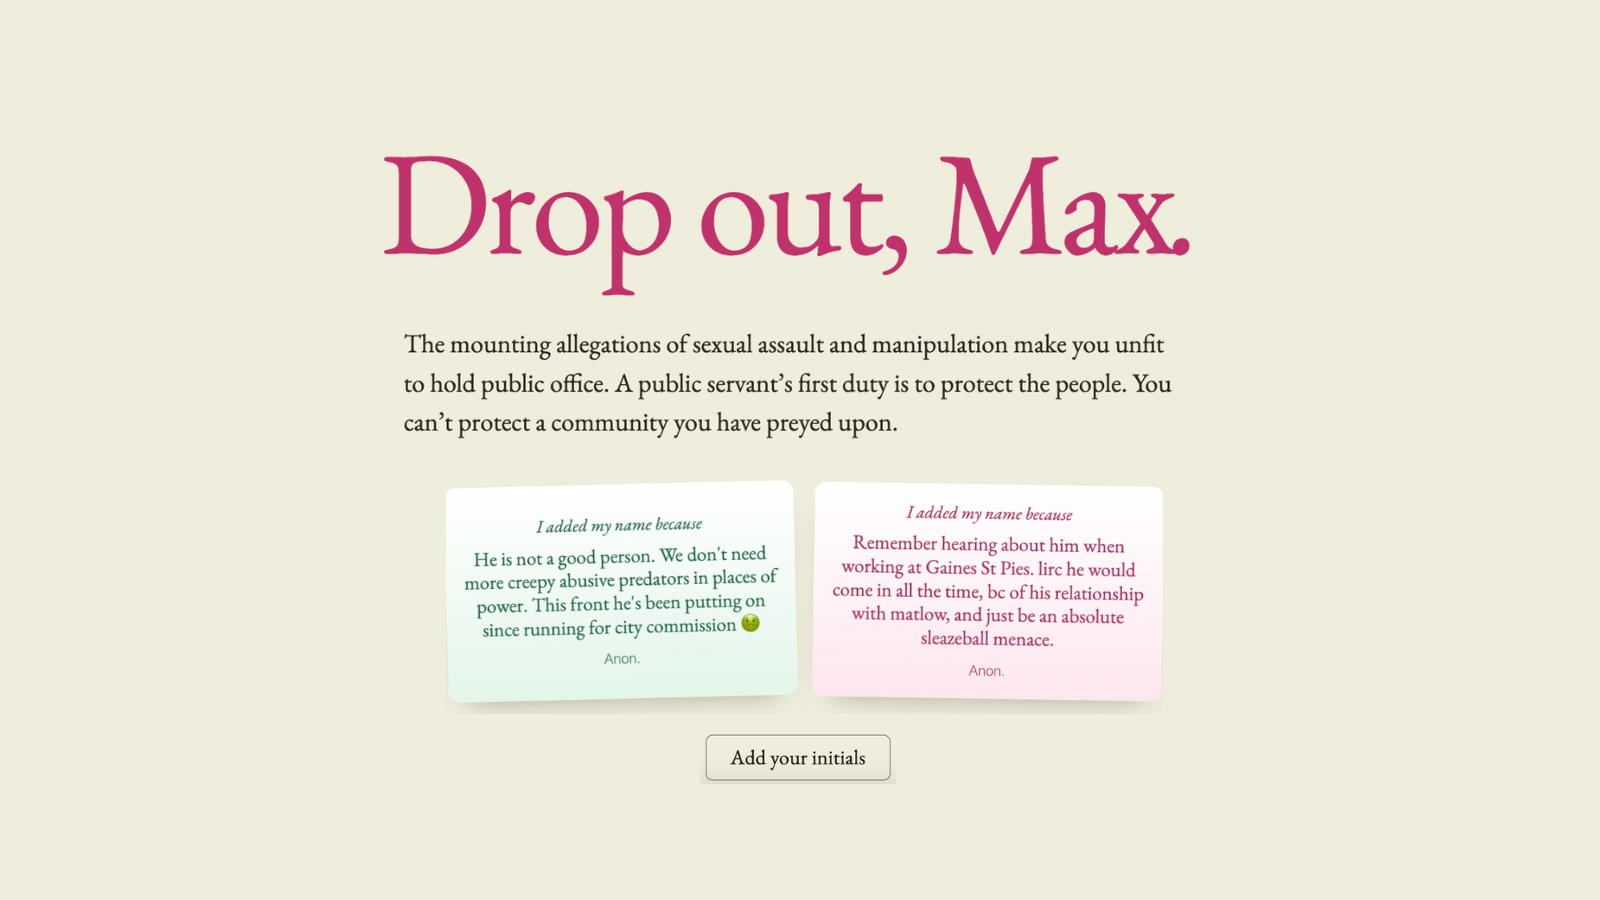
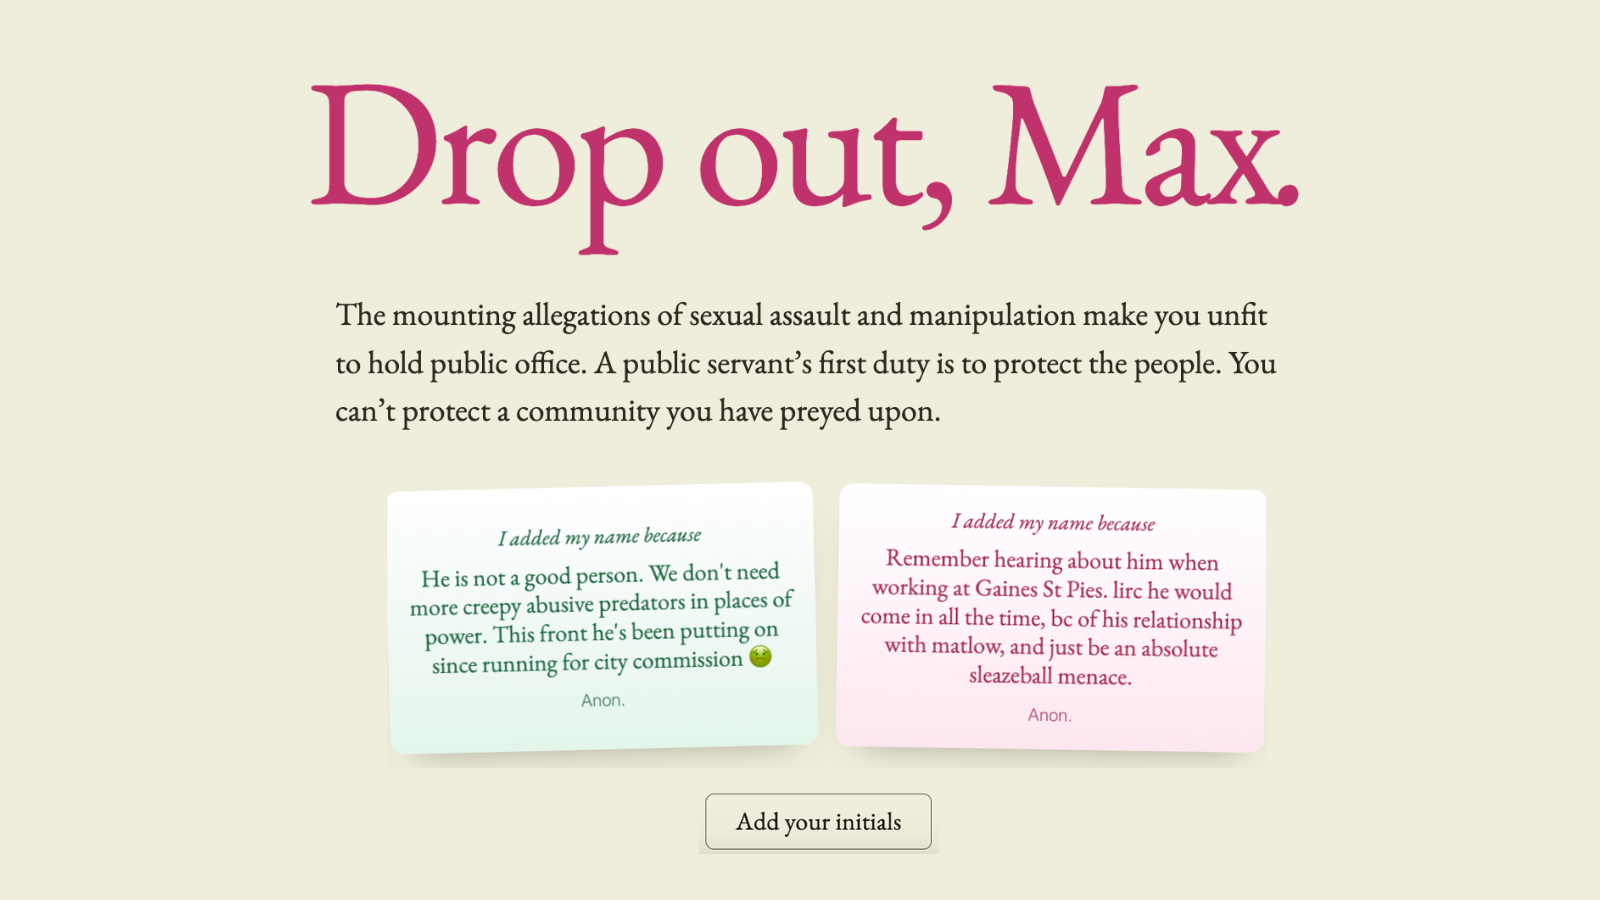
more tiny tiny tweaks (#14)

Changed region(s): [[0.1875, 0.0933, 0.8125, 0.4978], [0.2188, 0.5289, 0.8125, 0.8711], [0.4375, 0.9022, 0.5625, 0.9333]]

diff --git a/components/WallProvider.js b/components/WallProvider.js
@@ -36,36 +36,41 @@ export function WallProvider({ children }) {
     loadNotes();
   }, []);
 
-  async function addNote({ story, name }) {
-    if (!story.trim()) return false;
-    const initials = initialsOf(name);
+async function addNote({ story, name, contact, number }) {
+  if (!story.trim()) return false;
+  const initials = initialsOf(name);
 
-    try {
-      const res = await fetch("/api/wall-notes", {
-        method: "POST",
-        headers: { "Content-Type": "application/json" },
-        body: JSON.stringify({ initials, story: story.trim() }),
-      });
+  try {
+    const res = await fetch("/api/wall-notes", {
+      method: "POST",
+      headers: { "Content-Type": "application/json" },
+      body: JSON.stringify({
+        initials,
+        story: story.trim(),
+        contact: !!contact,
+        number: contact ? number.trim() : "",
+      }),
+    });
 
-      if (!res.ok) {
-        console.error("Failed to save note to Airtable");
-        return false;
-      }
-    } catch (err) {
-      console.error("Network error saving note:", err);
+    if (!res.ok) {
+      console.error("Failed to save note to Airtable");
       return false;
     }
-
-    const newNote = { story: story.trim(), name: initials };
-    setNotes((prev) => (newNote.story ? [newNote, ...prev] : prev));
-    setSigners((prev) =>
-      initials && initials.trim() !== "Anon." ? [...prev, { label: initials }] : prev
-    );
-    setAdding(false);
-    router.push("/notes");
-    if (typeof window !== "undefined") window.scrollTo({ top: 0, behavior: "smooth" });
-    return true;
+  } catch (err) {
+    console.error("Network error saving note:", err);
+    return false;
   }
+
+  const newNote = { story: story.trim(), name: initials };
+  setNotes((prev) => (newNote.story ? [newNote, ...prev] : prev));
+  setSigners((prev) =>
+    initials && initials.trim() !== "Anon." ? [...prev, { label: initials }] : prev
+  );
+  setAdding(false);
+  router.push("/notes");
+  if (typeof window !== "undefined") window.scrollTo({ top: 0, behavior: "smooth" });
+  return true;
+}
 
   return (
     <WallContext.Provider value={{ notes, signers, adding, setAdding, addNote, loading }}>

diff --git a/app/info/page.js b/app/info/page.js
@@ -17,12 +17,11 @@ export default function InfoPage() {
           A group of former and current Tallahassee residents wrote <a href="/">this open letter</a> to force a larger, and more open conversation about Max Herrle and his refusal to address mounting sexual assault and manipulation allegations.
         </p>
         <p style={body}>
-          Out of fear of retaliation, the creators chose to sign with just their initials to maintain some level of
-          anonymity. We are not affiliated with any campaign, party, or political committee. Just some women who believe
+          We invite members of the public to sign the open letter and post their stories about Max to the <a href="/notes">"wall"</a>. The more stories we share, the more pressure we put on Max and his enablers to address the issue of sexual assault and complacency towards abuse in Tallahassee. We are not affiliated with any campaign, party, or political committee. We are just some women who believe
           in accountability and the sanctity of public office.
         </p>
         <p style={body}>
-          We invite members of the public to sign the open letter and post their stories about Max to the <a href="/notes">"wall"</a>. The more stories we share, the more pressure we put on Max and his enablers to address the issue of sexual assault and complacency towards abuse in Tallahassee. Visit the <a href="/records">records page</a> to view first- and second-hand accounts of Max's exploitative actions. We received consent to post those screenshots.
+          Out of fear of retaliation, we signed the letter with our initials.  Visit the <a href="/records">records page</a> to view first- and second-hand accounts of Max's exploitative actions. We received consent to post those screenshots.
         </p>
         <p style={body}>
           To correct something on this site, ask a question, or share more details, write to{" "}

diff --git a/components/AddNoteModal.js b/components/AddNoteModal.js
@@ -27,14 +27,17 @@ export default function AddNoteModal() {
   const { adding, setAdding, addNote } = useWall();
   const [name, setName] = useState("");
   const [story, setStory] = useState("");
+  const [wantsContact, setWantsContact] = useState(false);
+  const [number, setNumber] = useState("");
 
   if (!adding) return null;
 
-  async function post() {
-    const success = await addNote({ story, name });
-    if (success) {
+  function post() {
+    if (addNote({ story, name, contact: wantsContact, number: wantsContact ? number : "" })) {
       setName("");
       setStory("");
+      setWantsContact(false);
+      setNumber("");
     }
   }
 
@@ -94,6 +97,29 @@ export default function AddNoteModal() {
             style={{ ...field, color: "#8a2f1d" }}
           />
         </label>
+
+        <label style={{ display: "flex", alignItems: "center", gap: 10, cursor: "pointer" }}>
+          <input
+            type="checkbox"
+            checked={wantsContact}
+            onChange={(e) => setWantsContact(e.target.checked)}
+            style={{ width: 16, height: 16, accentColor: "#8a2f1d", cursor: "pointer" }}
+          />
+          <span style={label}>Okay to contact me</span>
+        </label>
+
+        {wantsContact && (
+          <label style={{ display: "flex", flexDirection: "column", gap: 8 }}>
+            <span style={label}>Phone number:</span>
+            <input
+              type="tel"
+              value={number}
+              onChange={(e) => setNumber(e.target.value)}
+              placeholder="(850) 555-0123"
+              style={{ ...field, color: "#1c1a14" }}
+            />
+          </label>
+        )}
 
         <div style={{ display: "flex", alignItems: "center", gap: 18, marginTop: 6 }}>
           <button

diff --git a/components/NotesWall.js b/components/NotesWall.js
@@ -46,11 +46,6 @@ export default function NotesWall() {
             key={p}
             className="notes-page"
             style={{
-              flex: "0 0 100%",
-              display: "grid",
-              gridTemplateColumns: "repeat(2, minmax(0, 1fr))",
-              gridTemplateRows: "repeat(2, minmax(0, 1fr))",
-              gap: "clamp(12px,3vw,18px) clamp(10px,3vw,16px)",
               scrollSnapAlign: "start"
             }}
           >
@@ -60,12 +55,12 @@ export default function NotesWall() {
                 style={{
                   background: note.paper,
                   borderRadius: 10,
-                  padding: "16px 14px",
+                  padding: "24px 20px",
                   display: "flex",
                   flexDirection: "column",
                   alignItems: "center",
                   justifyContent: "center",
-                  gap: 8,
+                  gap: 10,
                   textAlign: "center",
                   minHeight: 180,
                   boxShadow: "0 14px 26px -18px rgba(28,26,20,0.42)",

diff --git a/app/api/wall-notes/route.js b/app/api/wall-notes/route.js
@@ -28,7 +28,7 @@ export async function GET() {
 
 export async function POST(req) {
   const body = await req.json()
-  const { initials, story } = body
+  const { initials, story, contact, number } = body
 
   const response = await fetch(
     `https://api.airtable.com/v0/${process.env.AIRTABLE_BASE_ID}/${process.env.AIRTABLE_TABLE_NAME}`,
@@ -42,6 +42,8 @@ export async function POST(req) {
         fields: {
           Initials: initials,
           Story: story,
+          Contact: !!contact,
+          Number: contact ? number : "",
         },
       }),
     }
@@ -50,7 +52,7 @@ export async function POST(req) {
   const result = await response.json()
 
   if (!response.ok) {
-    console.error('Airtable error:', result)
+    console.error("Airtable error:", result)
     return NextResponse.json({ data: 'error', detail: result }, { status: 500 })
   }
 

diff --git a/app/globals.css b/app/globals.css
@@ -17,3 +17,18 @@ a:hover { color: #8a2f1d; border-color: #8a2f1d; }
 @media (max-width: 380px) {
   .notes-page { grid-template-columns: minmax(0, 1fr) !important; grid-template-rows: repeat(4, minmax(0, 1fr)) !important; }
 }
+
+.notes-page {
+  flex: 0 0 100%;
+  display: grid;
+  grid-template-columns: repeat(2, minmax(0, 1fr));
+  grid-template-rows: repeat(2, minmax(0, 1fr));
+  gap: clamp(12px, 3vw, 18px) clamp(10px, 3vw, 16px);
+}
+
+@media (max-width: 640px) {
+  .notes-page {
+    grid-template-columns: 1fr;
+    grid-template-rows: none;
+  }
+}

diff --git a/app/layout.js b/app/layout.js
@@ -7,7 +7,7 @@ export const metadata = {
   metadataBase: new URL("https://dropoutmax.com"), // replace with your actual domain
   title: {
     default: "Drop out, Max.",
-    template: "%s | Drop out, Max.",
+    template: "%s  Drop out, Max.",
   },
   description:
     "An open letter calling on Max Herrle to withdraw from the Tallahassee City Commission race.",
